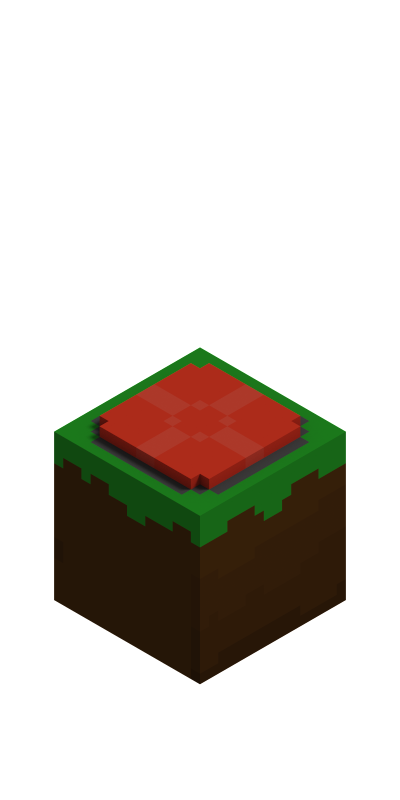
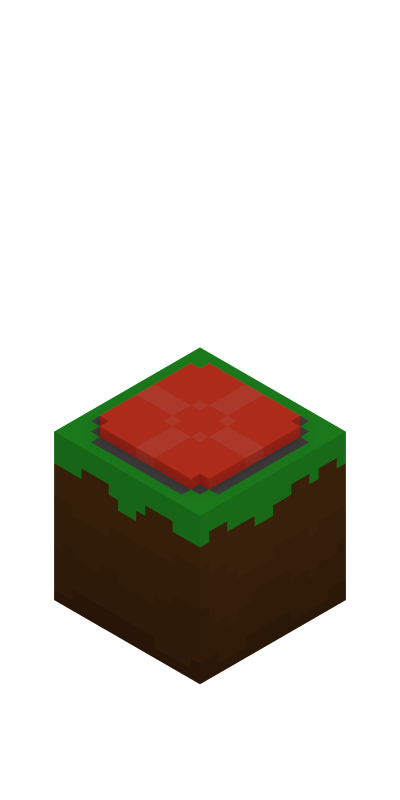
updated button texture, button press can be seen visually

Changed region(s): [[0.12, 0.5, 0.72, 0.6875], [0.78, 0.5625, 0.84, 0.625]]

diff --git a/world.js b/world.js
@@ -20,6 +20,10 @@ function World(game, tiles) {
                     tileSprites.push(this.createTileSprite(x, y, "G")) // Always first grass
                     tileSprites.push(this.createTileSprite(x, y, "M"))
                     tileSprites[tiles[x][y] == "M" ? 0 : 1].visible = false
+                } else if (tiles[x][y] == "B") {
+                    tileSprites.push(this.createTileSprite(x, y, "B0")) // Always first grass
+                    tileSprites.push(this.createTileSprite(x, y, "B1"))
+                    tileSprites[1].visible = false
                 } else tileSprites.push(this.createTileSprite(x, y, tiles[x][y]))
                 tileSprites.tileType = tiles[x][y]
                 sprites[x][y] = tileSprites
@@ -38,12 +42,12 @@ function World(game, tiles) {
     }
 
     this.randomTiles = function(size) {
-        return Array.from(Array(size)).map(() => Array.from(Array(size)).map(() => Phaser.Utils.Array.GetRandom(['G', 'G', 'G', 'G', 'W', 'M']))) // Ground bias xd
+        return Array.from(Array(size)).map(() => Array.from(Array(size)).map(() => Phaser.Utils.Array.GetRandom(['G', 'G', 'G', 'G', 'W', 'M', 'B']))) // Ground bias xd
     }
 
     this.isPassable = function (coords, edge) {
         //Check world bounds
-        if (coords[0] < edge || coords[1] < edge || coords[0] > this.game.levelSize - edge || coords[0] > this.game.levelSize - edge)
+        if (coords[0] < edge || coords[1] < edge || coords[0] > this.game.levelSize - edge || coords[1] > this.game.levelSize - edge)
             return false;
 
         //Check tile collision
@@ -69,6 +73,7 @@ function World(game, tiles) {
     this.triggerButton = function(coords) {
         var tilePos = [Math.floor(coords[0]), Math.floor(coords[1])]
         if (this.tiles[tilePos[0]][tilePos[1]] != "B") return // todo maybe throw error here or something
+        this.sprites[tilePos[0]][tilePos[1]].forEach(s => s.visible = !s.visible)
 
         // We switch neighbouring tiles from grass to mountain and vice versa
         this.getNeighbourCoords(tilePos).map(c => this.sprites[c[0]][c[1]]).filter(n => ["G", "M"].includes(n.tileType)).forEach(sprites => sprites.forEach(s => s.visible = !s.visible))

diff --git a/main.js b/main.js
@@ -30,7 +30,8 @@ function preload() {
         'G': Array.from(new Array(7), (v, i) => "G" + i),
         "W": ['W0'],
         'M': Array.from(new Array(4), (v, i) => "M" + i),
-        'B': ['B0']
+        'B0': ['B0'],
+        'B1': ['B1']
     }
 
     //Add pilot assets
@@ -45,7 +46,7 @@ function create() {
     var level = ALL_LEVELS[levelIndex]
     this.add.text(10, 10, 'Level ' + levelIndex).setColor("0").setFontSize(50);
 
-    this.world = new World(this, level.world)
+    this.world = new World(this, undefined)
     this.pilot = new Pilot(this, level.pilot.coords, level.pilot.dir)
 
     var pilot = this.pilot
